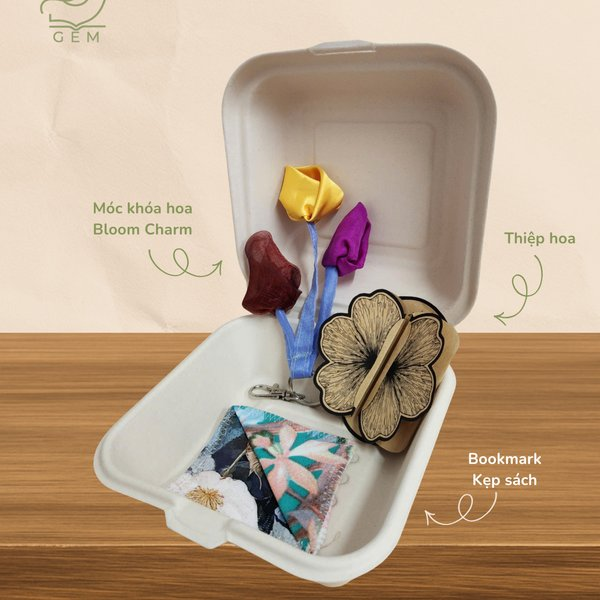
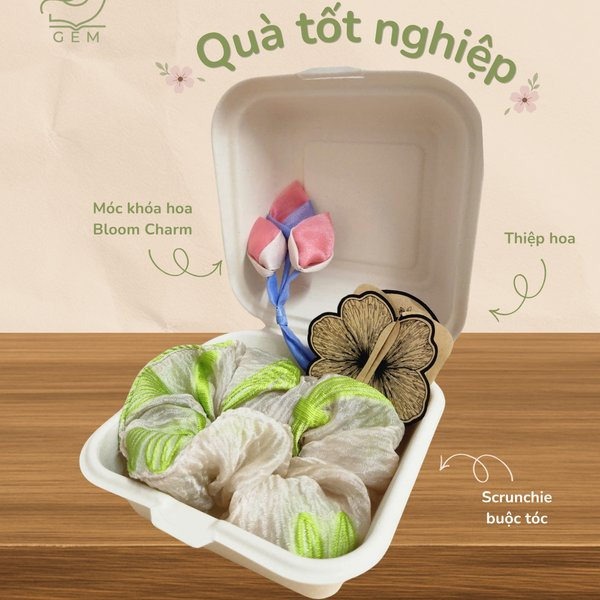
fix(ui): mobile nav overflow, home slideshow, product gallery polish
- nav: keep the menu toggle on screen at narrow widths (it was pushed
  off-screen); on phones tighten spacing, shrink the logo and drop the
  decorative tagline so the brand name stays whole
- home: replace the static product teaser grid with an auto-rotating
  slideshow (crossfade, dots, arrows, pause on hover, reduced-motion safe)
- san-pham: remove duplicate cards (túi đeo chéo, ví & thẻ vải ghép)
- gốm sứ: lead the carousel + card thumbnail with the full-shelf photos,
  move the 3-small-plates photo to the end
- set quà: open the carousel + thumbnail with the "Quà tốt nghiệp" photo;
  drop the product-list subtitle/lead (already shown in the photos)
- products: strip "· bấm để xem" from the 2hand & gốm card subtitles so
  it no longer lingers in the opened carousel
- gallery: new modal CTA (store or social) + "Liên hệ" button to ghe-tham

Claude-Session: https://claude.ai/code/session_01JpDh81rq9wfQHy8ZaJT5Lm

diff --git a/js/i18n.js b/js/i18n.js
@@ -76,14 +76,6 @@
     'home.products_title':   { vi: `Đa dạng các sắc màu từ Gem.`, en: `A spectrum of colors from Gem.` },
     'home.products_desc':    { vi: `Mỗi sản phẩm độc bản, không cái nào giống cái nào — bởi vải vụn và đồ secondhand đều có câu chuyện riêng.`, en: `Every product is one-of-a-kind — because every fabric scrap and secondhand piece has its own story.` },
     'home.products_more':    { vi: `Khám phá tất cả sản phẩm`, en: `Explore all products` },
-    'home.t1_h': { vi: `Túi đeo chéo`, en: `Crossbody bag` },
-    'home.t1_p': { vi: `Vải caro · upcycled`, en: `Plaid fabric · upcycled` },
-    'home.t2_h': { vi: `Gối Chắp Sắc`, en: `Patchwork cushion` },
-    'home.t2_p': { vi: `Patchwork · vintage`, en: `Patchwork · vintage` },
-    'home.t3_h': { vi: `Thảm Chắp Sắc`, en: `Patchwork rug` },
-    'home.t3_p': { vi: `Patchwork · thủ công`, en: `Patchwork · handmade` },
-    'home.t4_h': { vi: `Sổ kraft Gem`, en: `Gem kraft notebook` },
-    'home.t4_p': { vi: `Giấy tái chế`, en: `Recycled paper` },
     'home.email_eyebrow':    { vi: `Đồng hành,`, en: `Walk with us,` },
     'home.email_title':      { vi: `Cùng nhau, một vòng đời nữa.`, en: `Together, one more life cycle.` },
     'home.email_desc':       { vi: `Để chúng mình báo bạn khi có workshop mới, khi Season 02 mở cửa, hay khi có một dự án nho nhỏ vì môi trường cần thêm bạn đồng hành.`, en: `So we can let you know when there's a new workshop, when Season 02 opens, or when a small project for the planet needs another companion.` },
@@ -231,7 +223,8 @@
     'products.cta_h':    { vi: `Ghé thăm để xem trực tiếp.`, en: `Visit to see them in person.` },
     'products.cta_p':    { vi: `Mỗi sản phẩm là độc bản — ảnh chỉ là một phần của câu chuyện.`, en: `Every product is one-of-a-kind — photos are only part of the story.` },
     'products.cta_btn':  { vi: `Địa chỉ & cách ghé`, en: `Address & how to visit` },
-    'products.modal_cta':   { vi: `Mời các bạn qua cửa hàng xem & mua nhé!`, en: `Come visit our store to see & buy!` },
+    'products.modal_cta':   { vi: `Mời các bạn qua cửa hàng hoặc liên hệ với chúng mình qua các trang mạng xã hội nhé!`, en: `Come visit our store, or reach out to us on social media!` },
+    'products.modal_contact': { vi: `Liên hệ với chúng mình`, en: `Get in touch` },
     'products.modal_close': { vi: `Đóng`, en: `Close` },
     'products.modal_prev':  { vi: `Ảnh trước`, en: `Previous photo` },
     'products.modal_next':  { vi: `Ảnh tiếp theo`, en: `Next photo` },
@@ -243,16 +236,12 @@
     'products.oxford_p':     { vi: `Túi áo sơ mi`, en: `Shirt-shaped bag` },
     'products.denim_h':      { vi: `Reimagine the Denim`, en: `Reimagine the Denim` },
     'products.denim_p':      { vi: `Túi từ quần bò cũ`, en: `Bag from upcycled jeans` },
-    'products.crossbody_h':  { vi: `Túi đeo chéo`, en: `Crossbody bag` },
-    'products.crossbody_p':  { vi: `Vải caro upcycled`, en: `Upcycled plaid fabric` },
     'products.bloom_h':      { vi: `Bloom Charm`, en: `Bloom Charm` },
     'products.bloom_p':      { vi: `Móc khóa hoa · hoa rối sẽ nở`, en: `Flower charm keychain` },
     'products.tuibut_h':     { vi: `Túi bút kẹp sổ`, en: `Pen pouch` },
     'products.tuibut_p':     { vi: `Kẹp vào sổ tay`, en: `Clips onto your notebook` },
     'products.bookmark_h':   { vi: `Bookmark`, en: `Bookmark` },
     'products.bookmark_p':   { vi: `Cho người yêu sách`, en: `For book lovers` },
-    'products.wallet_h':     { vi: `Ví & thẻ vải ghép`, en: `Patchwork wallet & card holder` },
-    'products.wallet_p':     { vi: `Patchwork độc bản`, en: `One-of-a-kind patchwork` },
     'products.biaso_h':      { vi: `Bìa sổ vải ghép`, en: `Patchwork notebook cover` },
     'products.biaso_p':      { vi: `Handmade journal`, en: `Handmade journal` },
     'products.daydeo_h':     { vi: `Dây đeo cổ tay`, en: `Wrist strap` },
@@ -275,17 +264,17 @@
     /* 2hand + gốm gallery cards */
     'products.cat3_lead': { vi: `Quần áo 2hand được chọn lọc kỹ, có thể tân trang hoặc tái chế thành đồ mới. Bấm vào ảnh để xem cả bộ sưu tập.`, en: `Carefully curated 2hand clothing, ready to be refurbished or recycled into something new. Tap a photo to browse the whole collection.` },
     'products.c2hand_h':  { vi: `Bộ sưu tập 2hand`, en: `2hand collection` },
-    'products.c2hand_p':  { vi: `Mỗi món một câu chuyện · bấm để xem`, en: `Each piece, its own story · tap to view` },
+    'products.c2hand_p':  { vi: `Mỗi món một câu chuyện`, en: `Each piece, its own story` },
     'products.cat4_lead': { vi: `Gốm sứ Nhật được chọn lọc, làm sạch, mang sắc màu của thời gian. Bấm vào ảnh để xem thêm.`, en: `Curated Japanese ceramics, cleaned and carrying the colors of time. Tap a photo to see more.` },
     'products.cgom_h':    { vi: `Gốm sứ Nhật chọn lọc`, en: `Curated Japanese ceramics` },
-    'products.cgom_p':    { vi: `Sắc màu của thời gian · bấm để xem`, en: `Colors of time · tap to view` },
+    'products.cgom_p':    { vi: `Sắc màu của thời gian`, en: `Colors of time` },
 
     /* Set quà category */
     'products.cat5_h':   { vi: `Set quà tặng`, en: `Gift sets` },
     'products.cat5_tag': { vi: `— trao gửi yêu thương`, en: `— give with love` },
-    'products.cat5_lead':{ vi: `Những set quà nhỏ gói ghém từ đồ Gem — Bloom Charm, thiệp hoa, bookmark, scrunchie… cho dịp tốt nghiệp, sinh nhật, hay chỉ để tặng nhau.`, en: `Little gift sets wrapped from Gem pieces — Bloom Charm, flower cards, bookmarks, scrunchies… for graduations, birthdays, or just because.` },
+    'products.cat5_lead':{ vi: `Những set quà nhỏ gói ghém từ đồ Gem — cho dịp tốt nghiệp, sinh nhật, hay chỉ để tặng nhau. Mỗi set là một combo riêng, bấm vào ảnh để xem thêm.`, en: `Little gift sets wrapped from Gem pieces — for graduations, birthdays, or just because. Each set is its own combo; tap a photo to see more.` },
     'products.setqua_h': { vi: `Set quà tặng`, en: `Gift set` },
-    'products.setqua_p': { vi: `Bloom Charm · thiệp hoa · bookmark`, en: `Bloom Charm · flower card · bookmark` },
+    'products.setqua_p': { vi: `Gói ghém cho dịp đặc biệt`, en: `Wrapped for special occasions` },
 
     /* ---------- VISIT (ghe-tham) ---------- */
     'visit.eyebrow':    { vi: `Ghé thăm`, en: `Visit` },

diff --git a/index.html b/index.html
@@ -189,38 +189,41 @@
         <p data-i18n="home.products_desc">Mỗi sản phẩm độc bản, không cái nào giống cái nào — bởi vải vụn và đồ secondhand đều có câu chuyện riêng.</p>
       </div>
 
-      <div class="product-grid">
-        <div class="product-card">
-          <div class="product-card-image">
-            <img src="images/products/vai-vun-tui-deo-cheo-thumb.jpg" data-i18n-attr="alt:home.t1_h" alt="Túi đeo chéo vải caro" loading="lazy">
+      <!-- Auto-rotating product slideshow (see slideshow logic in js/main.js) -->
+      <div class="home-slideshow" data-slideshow data-interval="3800" aria-roledescription="carousel" data-i18n-attr="aria-label:home.products_title" aria-label="Đa dạng các sắc màu từ Gem.">
+        <div class="hs-frame">
+          <div class="hs-slide">
+            <img src="images/products/vai-vun-tui-1-thumb.jpg" data-i18n-attr="alt:products.origami_h" alt="Origami Pouch" loading="eager">
+            <span class="hs-caption" data-i18n="products.origami_h">Origami Pouch</span>
           </div>
-          <h4 data-i18n="home.t1_h">Túi đeo chéo</h4>
-          <p data-i18n="home.t1_p">Vải caro · upcycled</p>
-        </div>
-
-        <div class="product-card">
-          <div class="product-card-image">
-            <img src="images/products/vai-vun-goi-patchwork-thumb.jpg" data-i18n-attr="alt:home.t2_h" alt="Gối vải ghép" loading="lazy">
+          <div class="hs-slide">
+            <img src="images/products/vai-vun-bloom-charm-thumb.jpg" data-i18n-attr="alt:products.bloom_h" alt="Bloom Charm" loading="lazy">
+            <span class="hs-caption" data-i18n="products.bloom_h">Bloom Charm</span>
           </div>
-          <h4 data-i18n="home.t2_h">Gối vải ghép</h4>
-          <p data-i18n="home.t2_p">Patchwork · vintage</p>
-        </div>
-
-        <div class="product-card">
-          <div class="product-card-image">
-            <img src="images/products/vai-vun-tham-tron-thumb.jpg" data-i18n-attr="alt:home.t3_h" alt="Thảm vải ghép tròn" loading="lazy">
+          <div class="hs-slide">
+            <img src="images/products/vai-vun-goi-patchwork-thumb.jpg" data-i18n-attr="alt:products.goi_h" alt="Gối Chắp Sắc" loading="lazy">
+            <span class="hs-caption" data-i18n="products.goi_h">Gối Chắp Sắc</span>
           </div>
-          <h4 data-i18n="home.t3_h">Thảm vải ghép</h4>
-          <p data-i18n="home.t3_p">Patchwork · thủ công</p>
-        </div>
-
-        <div class="product-card">
-          <div class="product-card-image">
-            <img src="images/products/vpp-so-kraft-thumb.jpg" data-i18n-attr="alt:home.t4_h" alt="Sổ kraft handmade" loading="lazy">
+          <div class="hs-slide">
+            <img src="images/products/vai-vun-tham-tron-thumb.jpg" data-i18n-attr="alt:products.tham_h" alt="Thảm Chắp Sắc" loading="lazy">
+            <span class="hs-caption" data-i18n="products.tham_h">Thảm Chắp Sắc</span>
           </div>
-          <h4 data-i18n="home.t4_h">Sổ kraft Gem</h4>
-          <p data-i18n="home.t4_p">Giấy tái chế</p>
+          <div class="hs-slide">
+            <img src="images/products/set-qua-tang-thumb.jpg" data-i18n-attr="alt:products.setqua_h" alt="Set quà tặng" loading="lazy">
+            <span class="hs-caption" data-i18n="products.setqua_h">Set quà tặng</span>
+          </div>
+          <div class="hs-slide">
+            <img src="images/products/gom-thumb.jpg" data-i18n-attr="alt:products.cgom_h" alt="Gốm sứ Nhật chọn lọc" loading="lazy">
+            <span class="hs-caption" data-i18n="products.cgom_h">Gốm sứ Nhật chọn lọc</span>
+          </div>
+          <div class="hs-slide">
+            <img src="images/products/vpp-so-kraft-thumb.jpg" data-i18n-attr="alt:products.pv1_h" alt="Sổ kraft spiral" loading="lazy">
+            <span class="hs-caption" data-i18n="products.pv1_h">Sổ kraft spiral</span>
+          </div>
+          <button type="button" class="hs-nav hs-prev" aria-label="Ảnh trước" data-i18n-attr="aria-label:products.modal_prev">&#8249;</button>
+          <button type="button" class="hs-nav hs-next" aria-label="Ảnh tiếp theo" data-i18n-attr="aria-label:products.modal_next">&#8250;</button>
         </div>
+        <div class="hs-dots" role="tablist"></div>
       </div>
 
       <div style="text-align: center; margin-top: var(--space-12);">

diff --git a/css/style.css b/css/style.css
@@ -211,6 +211,23 @@ p:last-child { margin-bottom: 0; }
 .nav-mobile.open { display: flex; }
 .nav-mobile a { font-size: var(--text-base); color: var(--ink-body); font-weight: 500; padding: var(--space-2) 0; }
 
+/* Narrow screens: keep brand, lang switch AND the menu toggle on screen.
+   The toggle must never be pushed off-screen (was overflowing before). */
+@media (max-width: 959px) {
+  .nav { gap: var(--space-3); }
+  .nav-brand { flex: 0 1 auto; min-width: 0; }
+  .nav-brand-text { min-width: 0; white-space: nowrap; overflow: hidden; text-overflow: ellipsis; }
+  .lang-switch, .nav-toggle { flex-shrink: 0; }
+}
+/* On phones, reclaim horizontal space so the brand name stays whole:
+   tighter padding, a smaller logo, and drop the decorative tagline. */
+@media (max-width: 599px) {
+  .nav { padding-inline: var(--space-4); gap: var(--space-2); }
+  .nav-brand { gap: var(--space-2); }
+  .nav-brand img { height: 40px; }
+  .nav-brand-text small { display: none; }
+}
+
 /* BUTTONS */
 .btn {
   display: inline-flex;
@@ -611,6 +628,61 @@ p:last-child { margin-bottom: 0; }
 
 .product-card h4 { font-size: var(--text-base); margin-bottom: var(--space-1); font-weight: 700; }
 .product-card p { font-size: var(--text-sm); color: var(--ink-soft); margin-bottom: 0; }
+
+/* HOME PRODUCT SLIDESHOW — auto-rotating showcase on the home page */
+.home-slideshow { position: relative; max-width: 520px; margin-inline: auto; }
+.hs-frame {
+  position: relative;
+  aspect-ratio: 1;
+  border-radius: var(--radius-lg);
+  overflow: hidden;
+  background: var(--paper-white);
+  border: 1px solid rgba(135, 150, 90, 0.15);
+  box-shadow: var(--shadow-paper);
+}
+.hs-slide {
+  position: absolute;
+  inset: 0;
+  opacity: 0;
+  transition: opacity 0.8s ease;
+  pointer-events: none;
+}
+.hs-slide.active { opacity: 1; pointer-events: auto; }
+.hs-slide img { width: 100%; height: 100%; object-fit: cover; display: block; }
+.hs-caption {
+  position: absolute;
+  left: 0; right: 0; bottom: 0;
+  padding: var(--space-8) var(--space-6) var(--space-4);
+  background: linear-gradient(to top, rgba(61, 74, 46, 0.78), rgba(61, 74, 46, 0));
+  color: var(--paper-white);
+  font-family: var(--font-display);
+  font-weight: 700;
+  font-size: var(--text-lg);
+  text-align: left;
+}
+.hs-nav {
+  position: absolute;
+  top: 50%;
+  transform: translateY(-50%);
+  width: 40px; height: 40px;
+  border-radius: 50%;
+  background: rgba(251, 246, 238, 0.9);
+  color: var(--ink-dark);
+  font-size: 24px;
+  line-height: 1;
+  display: flex; align-items: center; justify-content: center;
+  box-shadow: var(--shadow-soft);
+  z-index: 2;
+}
+.hs-nav:hover { background: var(--paper-white); }
+.hs-nav:focus-visible { outline: 2px solid var(--sage-deep); outline-offset: 2px; }
+.hs-prev { left: var(--space-3); }
+.hs-next { right: var(--space-3); }
+.hs-dots { display: flex; gap: 7px; justify-content: center; margin-top: var(--space-4); flex-wrap: wrap; }
+.hs-dot { width: 9px; height: 9px; border-radius: 50%; background: var(--sage-light); padding: 0; transition: background 0.2s ease; }
+.hs-dot.active { background: var(--sage-deep); }
+.hs-dot:focus-visible { outline: 2px solid var(--sage-deep); outline-offset: 2px; }
+@media (prefers-reduced-motion: reduce) { .hs-slide { transition: none; } }
 
 .product-featured {
   position: relative;
@@ -1234,4 +1306,5 @@ html[lang="en"] .season-card.active::before { content: '● ongoing'; }
 .pg-title { font-size: var(--text-xl); margin-bottom: var(--space-1); }
 .pg-sub { color: var(--ink-soft); font-size: var(--text-sm); margin-bottom: var(--space-3); }
 .pg-cta { font-family: var(--font-hand); font-size: var(--text-xl); color: var(--sage-deep); margin-bottom: 0; }
+.pg-contact { margin-top: var(--space-4); }
 body.pg-lock { overflow: hidden; }

diff --git a/san-pham.html b/san-pham.html
@@ -116,13 +116,6 @@
             <h4 data-i18n="products.denim_h">Reimagine the Denim</h4>
             <p data-i18n="products.denim_p">Túi từ quần bò cũ</p>
           </div>
-          <div class="product-card" data-gallery="vai-vun-tui-6.jpg">
-            <div class="product-card-image">
-              <img src="images/products/vai-vun-tui-deo-cheo-thumb.jpg" data-i18n-attr="alt:products.crossbody_h" alt="Túi đeo chéo" loading="lazy">
-            </div>
-            <h4 data-i18n="products.crossbody_h">Túi đeo chéo</h4>
-            <p data-i18n="products.crossbody_p">Vải caro upcycled</p>
-          </div>
           <div class="product-card" data-gallery="vai-vun-bloom-charm-1.png,vai-vun-bloom-charm-2.png,vai-vun-bloom-charm-3.png,vai-vun-bloom-charm-4.png,vai-vun-bloom-charm-5.png,vai-vun-bloom-charm-6.png">
             <div class="product-card-image">
               <img src="images/products/vai-vun-bloom-charm-thumb.jpg" data-i18n-attr="alt:products.bloom_h" alt="Bloom Charm" loading="lazy">
@@ -143,13 +136,6 @@
             </div>
             <h4 data-i18n="products.bookmark_h">Bookmark</h4>
             <p data-i18n="products.bookmark_p">Cho người yêu sách</p>
-          </div>
-          <div class="product-card" data-gallery="vai-vun-vi-patchwork.jpg">
-            <div class="product-card-image">
-              <img src="images/products/vai-vun-vi-patchwork-thumb.jpg" data-i18n-attr="alt:products.wallet_h" alt="Ví & thẻ vải ghép" loading="lazy">
-            </div>
-            <h4 data-i18n="products.wallet_h">Ví & thẻ vải ghép</h4>
-            <p data-i18n="products.wallet_p">Patchwork độc bản</p>
           </div>
           <div class="product-card" data-gallery="vai-vun-bia-so.jpg">
             <div class="product-card-image">
@@ -264,7 +250,7 @@
         </p>
 
         <div class="product-grid">
-          <div class="product-card" data-gallery="gom-3.jpg,gom-1.jpg,gom-2.jpg">
+          <div class="product-card" data-gallery="gom-2.jpg,gom-1.jpg,gom-3.jpg">
             <div class="product-card-image">
               <img src="images/products/gom-thumb.jpg" data-i18n-attr="alt:products.cgom_h" alt="Gốm sứ Nhật chọn lọc" loading="lazy">
             </div>
@@ -285,7 +271,7 @@
         </p>
 
         <div class="product-grid">
-          <div class="product-card" data-gallery="set-qua-tang-1.png,set-qua-tang-2.png,set-qua-tang-3.png,set-qua-tang-4.jpg">
+          <div class="product-card" data-gallery="set-qua-tang-2.png,set-qua-tang-1.png,set-qua-tang-3.png,set-qua-tang-4.jpg">
             <div class="product-card-image">
               <img src="images/products/set-qua-tang-thumb.jpg" data-i18n-attr="alt:products.setqua_h" alt="Set quà tặng" loading="lazy">
             </div>

diff --git a/js/main.js b/js/main.js
@@ -159,4 +159,62 @@ document.addEventListener('DOMContentLoaded', function() {
       }
     });
   }
+
+  // Home product slideshow: auto-rotating image showcase (crossfade)
+  document.querySelectorAll('[data-slideshow]').forEach(function(root) {
+    const slides = Array.prototype.slice.call(root.querySelectorAll('.hs-slide'));
+    if (!slides.length) return;
+    if (slides.length < 2) { slides[0].classList.add('active'); return; }
+
+    const dotsWrap = root.querySelector('.hs-dots');
+    const prevBtn = root.querySelector('.hs-prev');
+    const nextBtn = root.querySelector('.hs-next');
+    const interval = parseInt(root.getAttribute('data-interval'), 10) || 4000;
+    const reduce = window.matchMedia('(prefers-reduced-motion: reduce)').matches;
+    let idx = 0;
+    let timer = null;
+
+    const dots = slides.map(function(_, i) {
+      const d = document.createElement('button');
+      d.type = 'button';
+      d.className = 'hs-dot';
+      d.setAttribute('role', 'tab');
+      d.setAttribute('aria-label', 'Ảnh ' + (i + 1));
+      d.addEventListener('click', function() { go(i); restart(); });
+      if (dotsWrap) dotsWrap.appendChild(d);
+      return d;
+    });
+
+    function show(i) {
+      slides.forEach(function(s, n) {
+        const on = n === i;
+        s.classList.toggle('active', on);
+        s.setAttribute('aria-hidden', on ? 'false' : 'true');
+      });
+      dots.forEach(function(d, n) {
+        const on = n === i;
+        d.classList.toggle('active', on);
+        d.setAttribute('aria-selected', on ? 'true' : 'false');
+      });
+      idx = i;
+    }
+    function go(i) { show((i + slides.length) % slides.length); }
+    function next() { go(idx + 1); }
+    function prev() { go(idx - 1); }
+    function start() { if (!reduce && !timer) timer = setInterval(next, interval); }
+    function stop() { if (timer) { clearInterval(timer); timer = null; } }
+    function restart() { stop(); start(); }
+
+    if (nextBtn) nextBtn.addEventListener('click', function() { next(); restart(); });
+    if (prevBtn) prevBtn.addEventListener('click', function() { prev(); restart(); });
+
+    // Pause while the visitor is hovering or tabbing through the slideshow
+    root.addEventListener('mouseenter', stop);
+    root.addEventListener('mouseleave', start);
+    root.addEventListener('focusin', stop);
+    root.addEventListener('focusout', start);
+
+    show(0);
+    start();
+  });
 });

diff --git a/js/gallery.js b/js/gallery.js
@@ -50,7 +50,8 @@
         '<div class="pg-info">' +
           '<h3 class="pg-title"></h3>' +
           '<p class="pg-sub"></p>' +
-          '<p class="pg-cta" data-i18n="products.modal_cta">' + t('products.modal_cta', 'Mời các bạn qua cửa hàng xem & mua nhé!') + '</p>' +
+          '<p class="pg-cta" data-i18n="products.modal_cta">' + t('products.modal_cta', 'Mời các bạn qua cửa hàng hoặc liên hệ với chúng mình qua các trang mạng xã hội nhé!') + '</p>' +
+          '<a class="pg-contact btn btn-primary" href="ghe-tham.html" data-i18n="products.modal_contact">' + t('products.modal_contact', 'Liên hệ với chúng mình') + '</a>' +
         '</div>' +
       '</div>';
     document.body.appendChild(modal);
